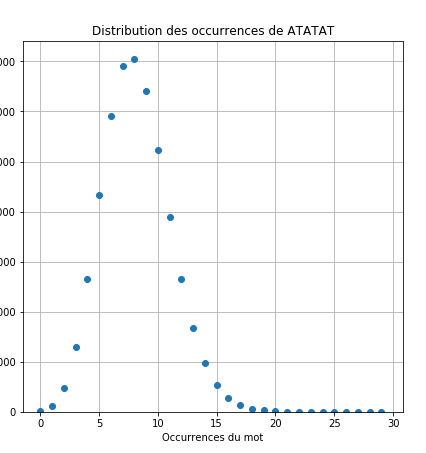
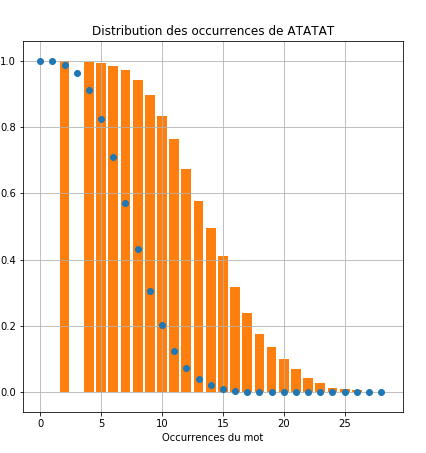
Histograms

diff --git a/project.py b/project.py
@@ -1,6 +1,7 @@
 from functools import reduce
 from itertools import product
 import math
+from scipy.stats import poisson
 import numpy as np
 import pandas as pd
 import matplotlib.pyplot as plt
@@ -314,6 +315,7 @@ def p_empirique(length, word, freqs, nb_simulation=1000):
     -------
 
     """
+
     nb_observed ={}
     word_ = tuple(str_to_int(word))
     for _ in range(nb_simulation):
@@ -325,7 +327,11 @@ def p_empirique(length, word, freqs, nb_simulation=1000):
             nb_observed[nb] +=1
         else:
             nb_observed[nb] = 1
-    return {nb : nb_observed[nb]/nb_simulation for nb in nb_observed.keys()}
+    sorted_obs = {k: v for k, v in sorted(nb_observed.items())}
+
+    keys = list(sorted_obs.keys())
+    values = np.cumsum(list(sorted_obs.values()))
+    return (keys, 1-(values/nb_simulation))
 
 def plot_histogram(sequence,freqs, nb_simulation=1000):
     """
@@ -348,13 +354,15 @@ def plot_histogram(sequence,freqs, nb_simulation=1000):
         p[word] = markov_proba(str_to_int(word),transition_matrix(sequence),pik)
     fig, axes = plt.subplots(2, 2, figsize=(15, 15))
     for pos, word in zip(positions, p_emp.keys()):
-        max_ = max(p_emp[word].keys()) + 1
+        max_ = max(p_emp[word][0]) + 1
         k = np.arange(max_)
         l = p[word] * (len(sequence) - len(word) + 1)
-        keys = np.array([x for x in p_emp[word].keys()])
-        values = np.array([x for x in p_emp[word].values()])
-        poisson = [(l**i)/math.factorial(i)*np.exp(l) for i in k]
-        axes[pos].scatter(k,poisson, zorder=2)
+        keys = p_emp[word][0]
+        values = p_emp[word][1]
+        print(values)
+        print(keys)
+        poiss = 1 - poisson.cdf(k,l)
+        axes[pos].scatter(k,poiss, zorder = 2)
         axes[pos].bar(keys, values)
         axes[pos].grid(True)
         axes[pos].set_title("Distribution des occurrences de " + word)
